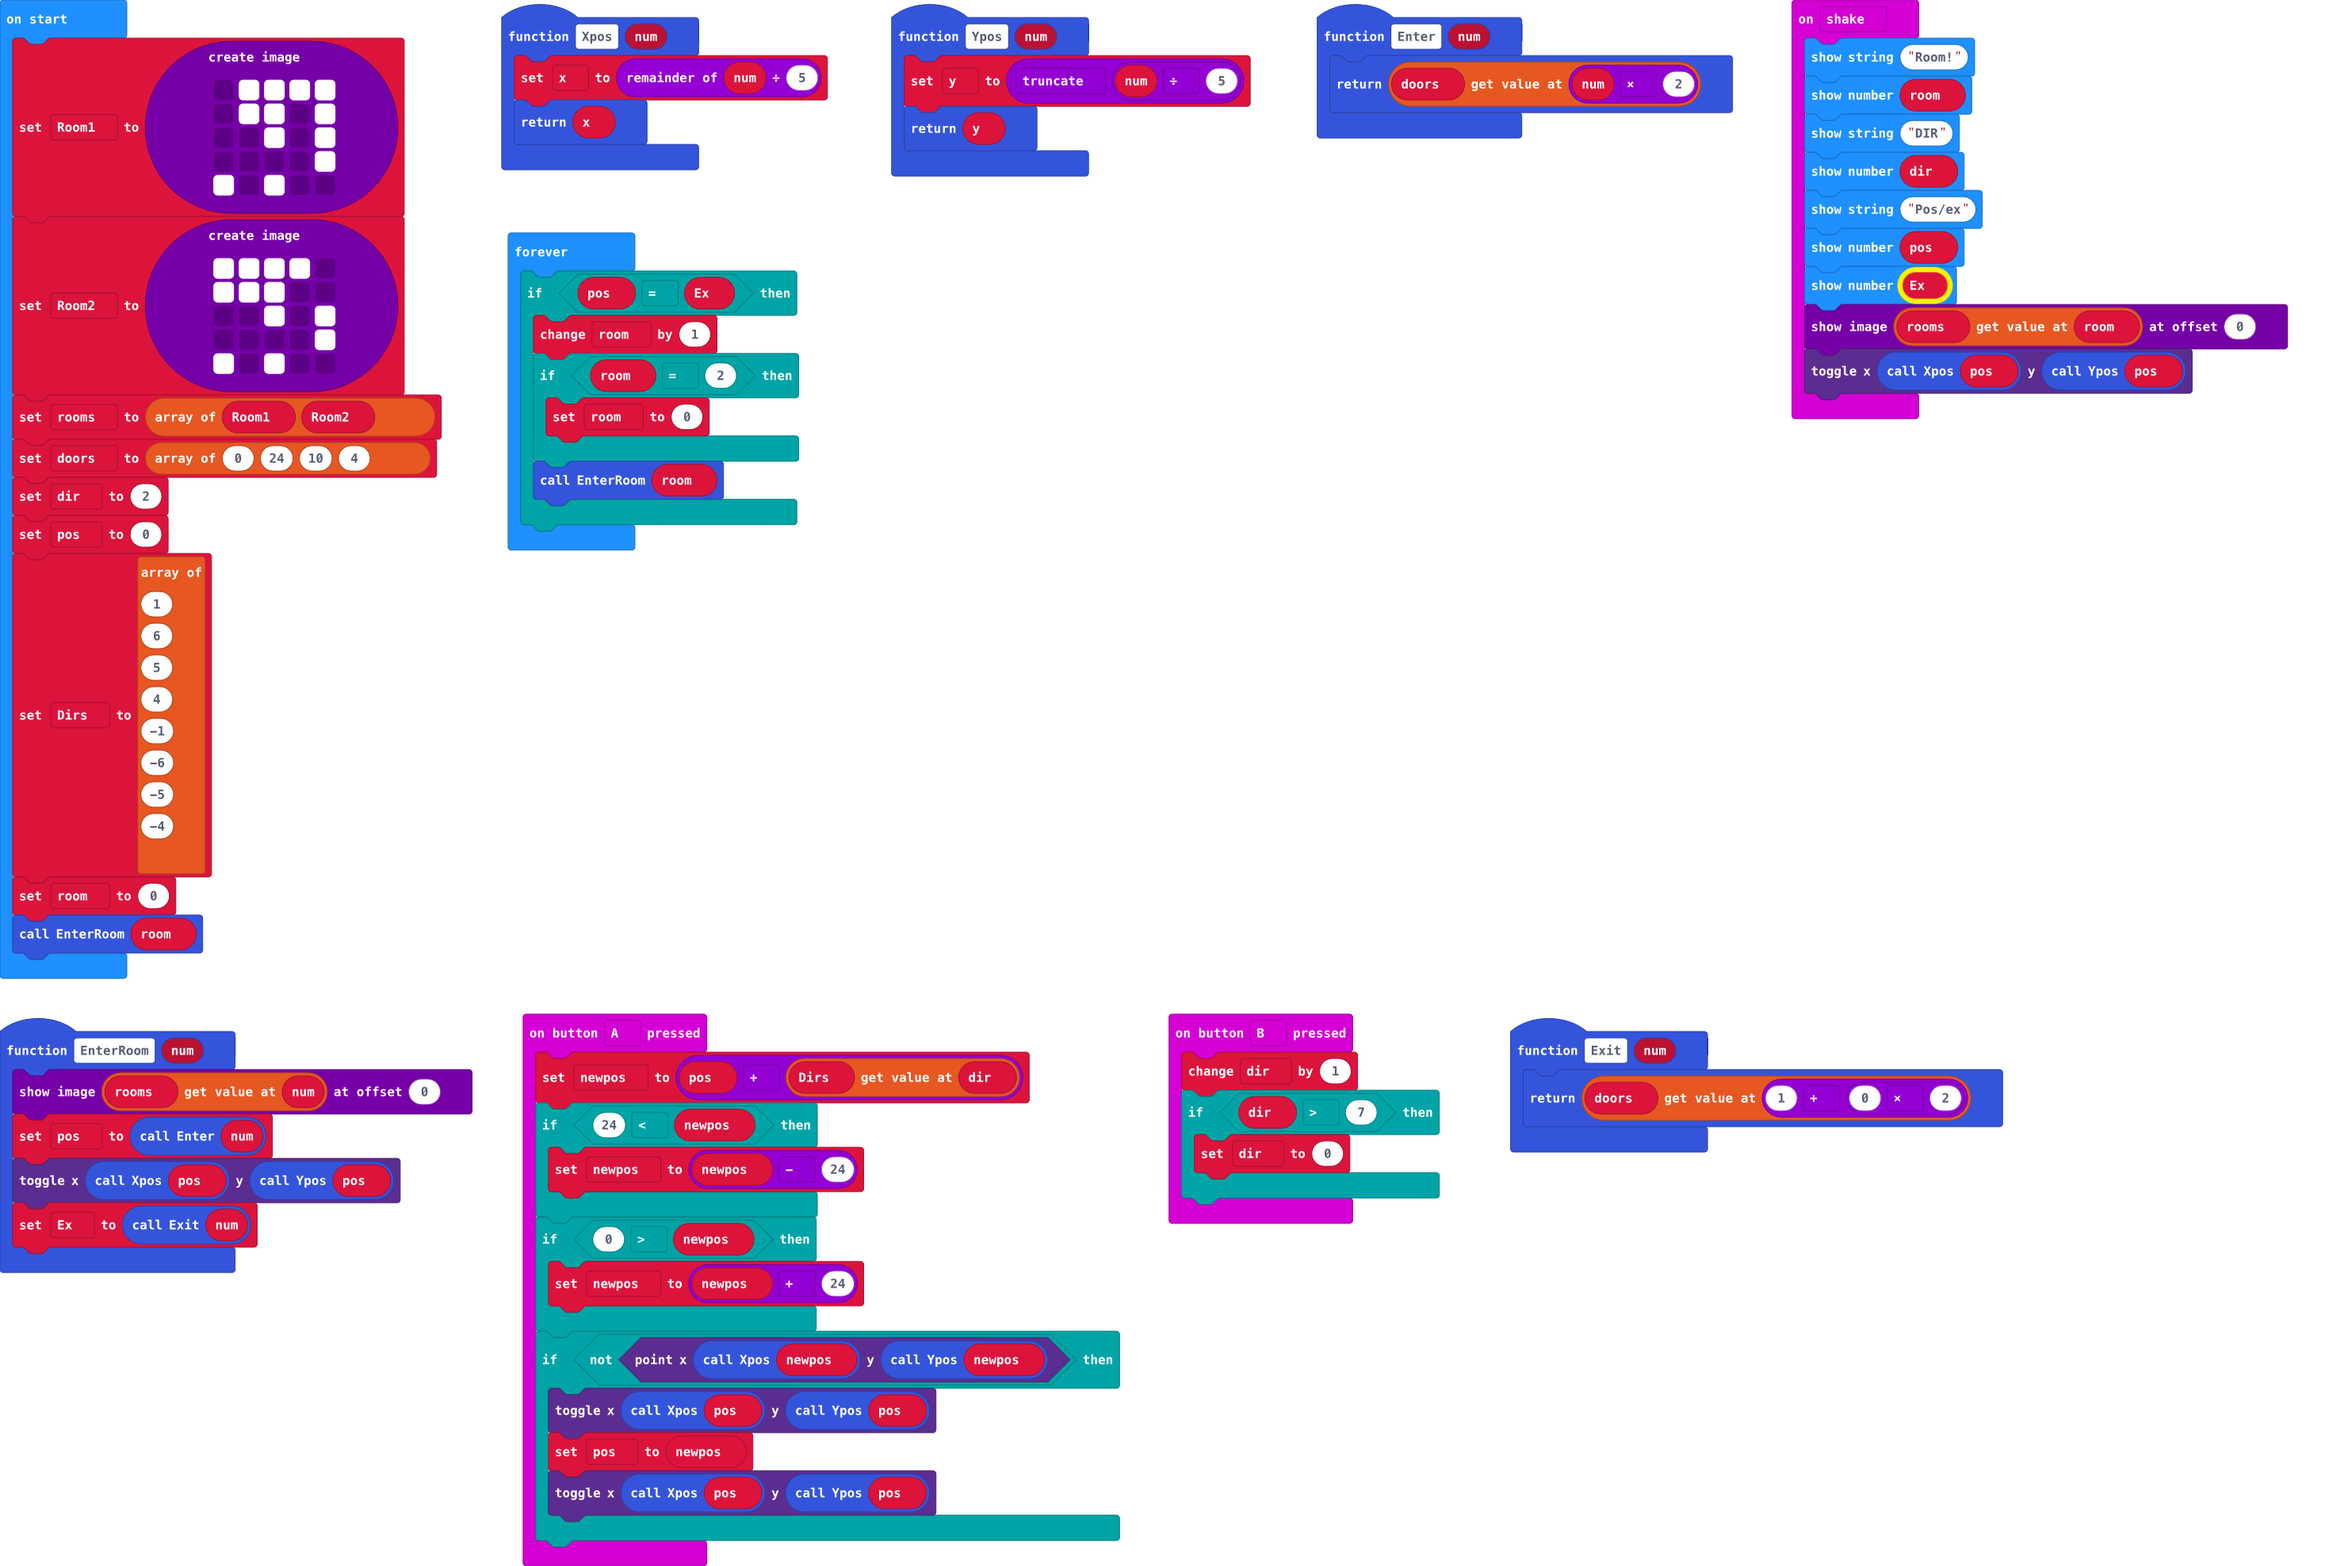
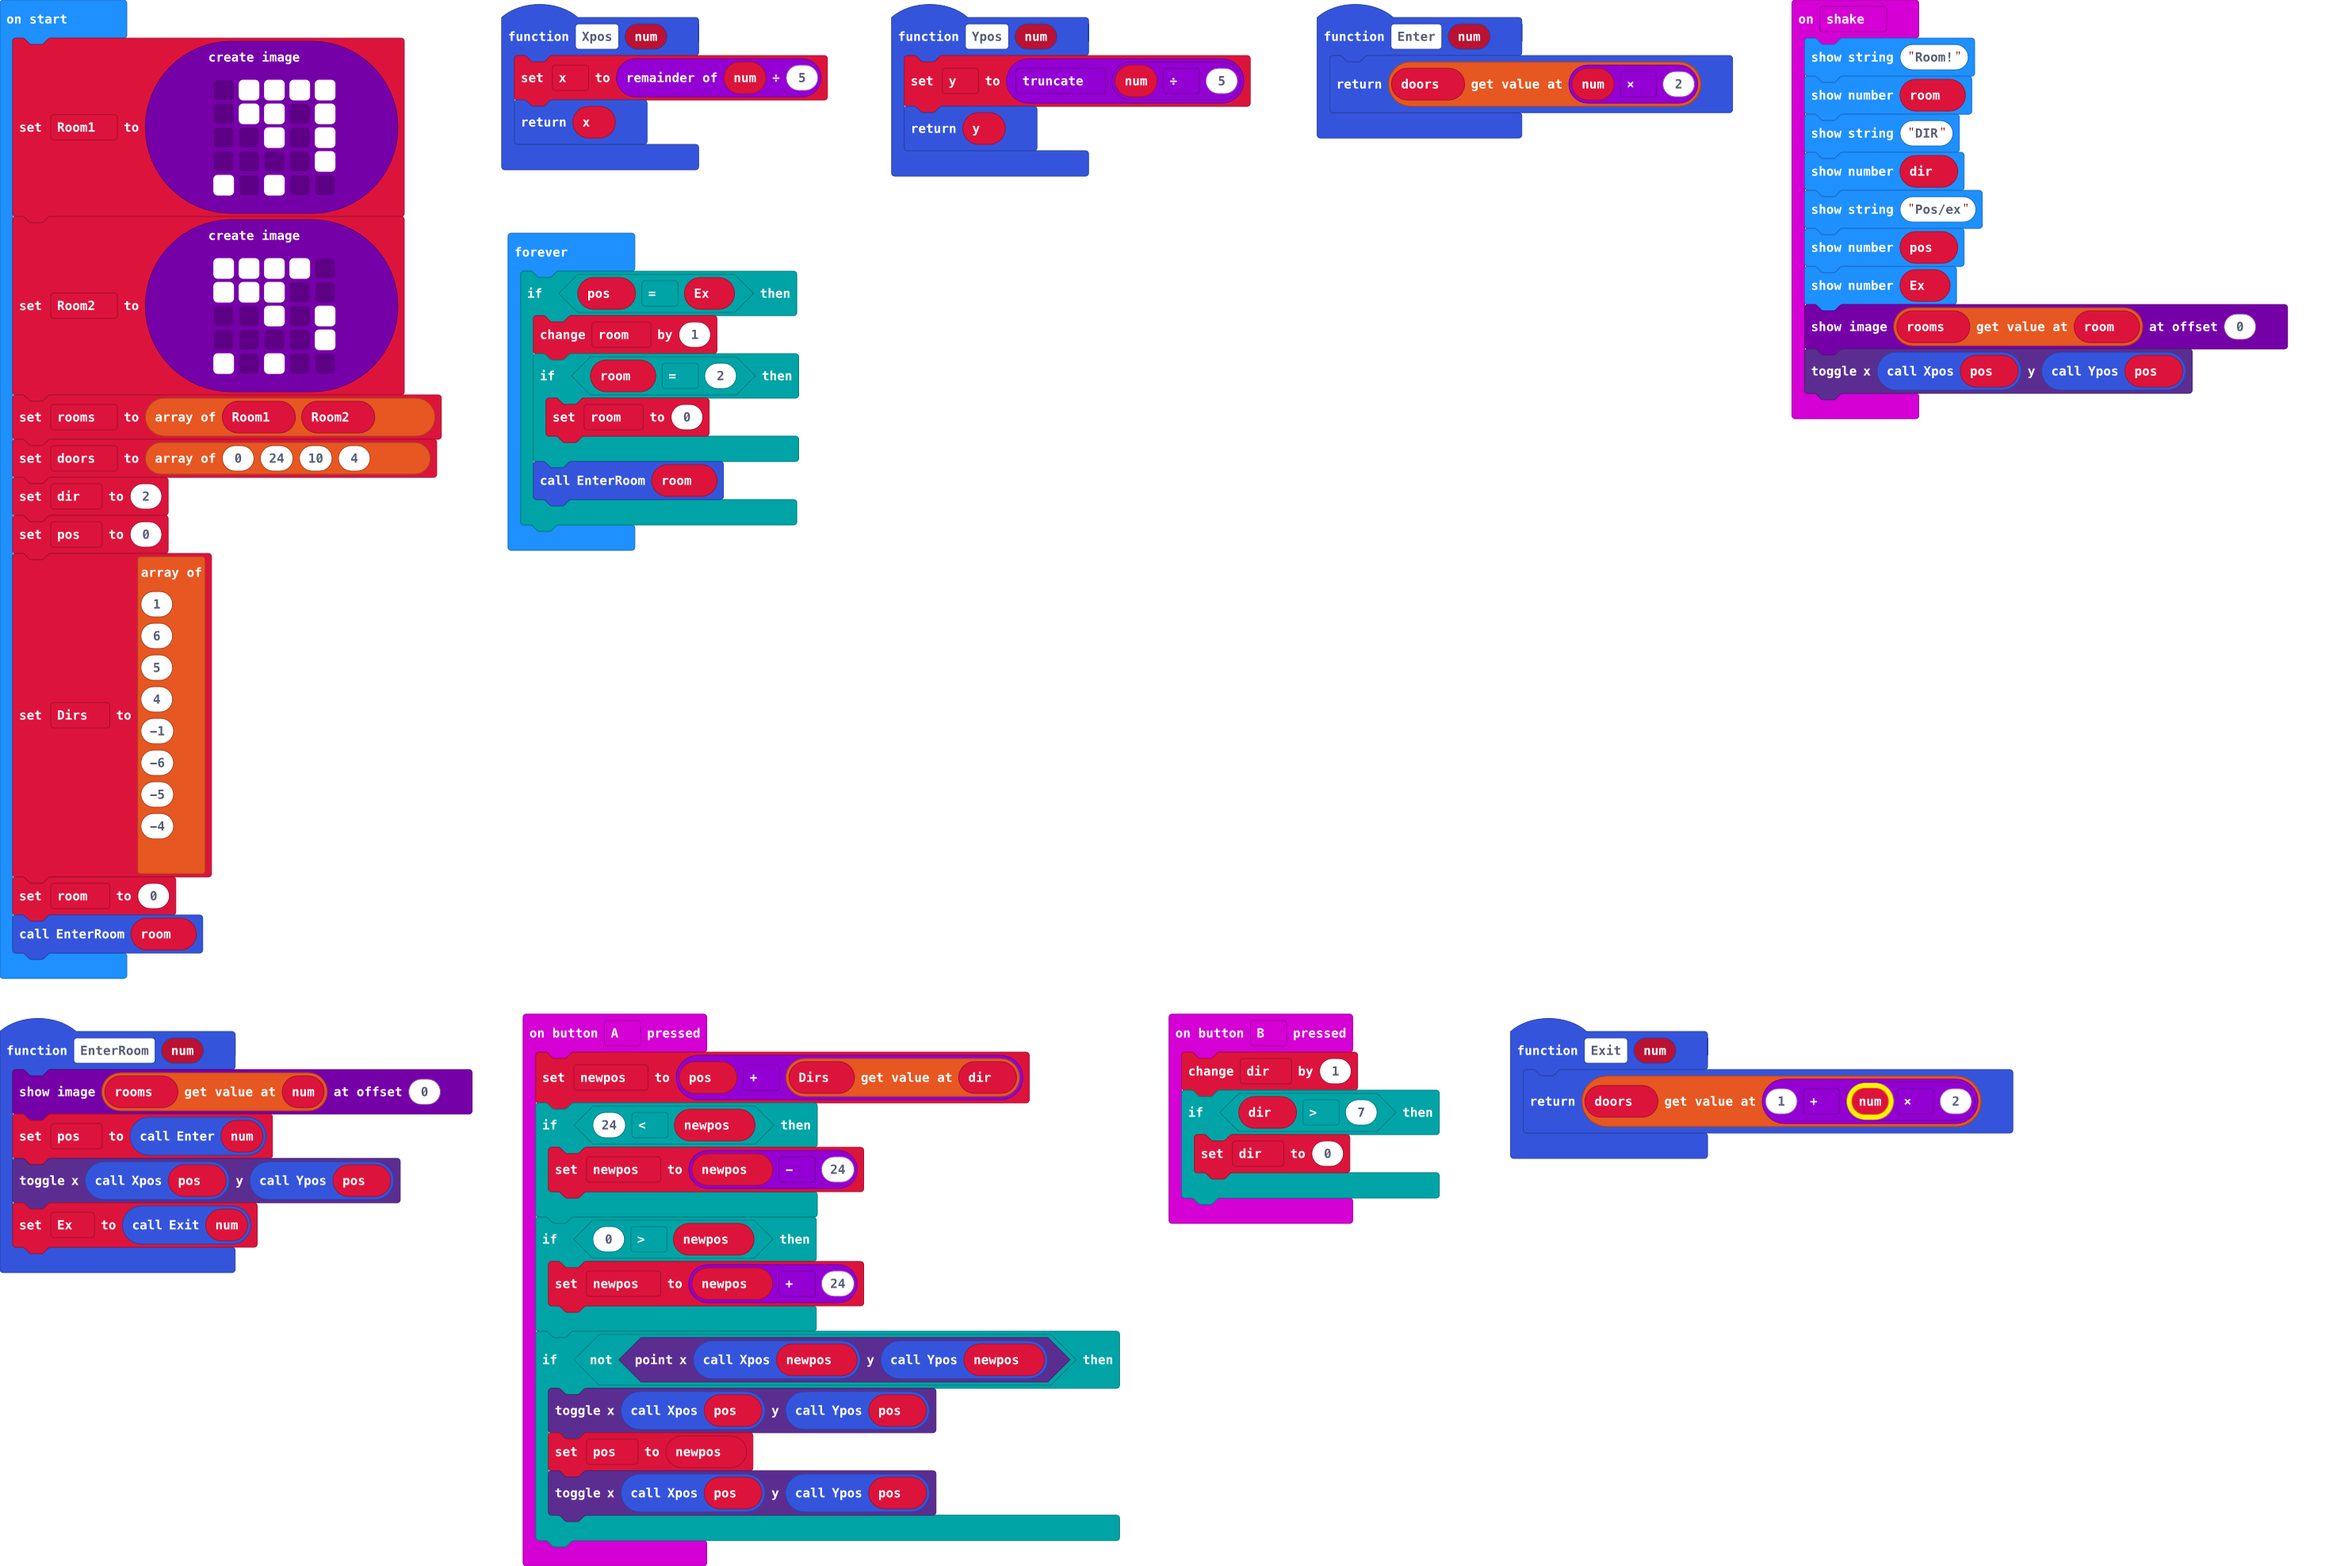
Update main.blocks, main.ts

Changed region(s): [[0.6504, 0.6795, 0.8673, 0.7413], [0.8053, 0.1544, 0.8363, 0.1853]]

diff --git a/main.ts b/main.ts
@@ -43,7 +43,7 @@ function Ypos (num: number) {
     return y
 }
 function Exit (num: number) {
-    return doors[1 + 0 * 2]
+    return doors[1 + num * 2]
 }
 function Xpos (num: number) {
     x = num % 5
